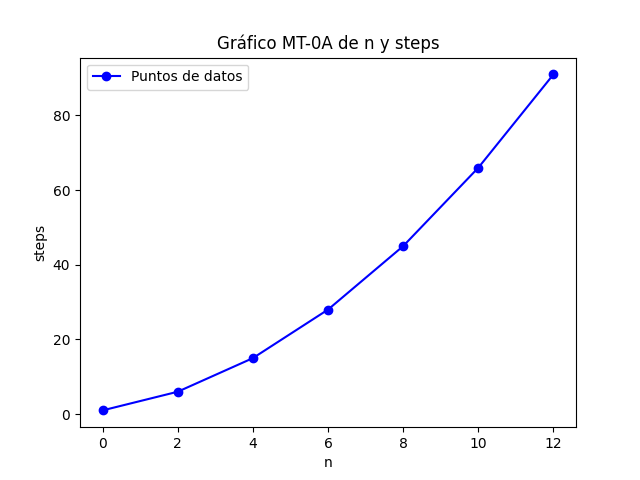
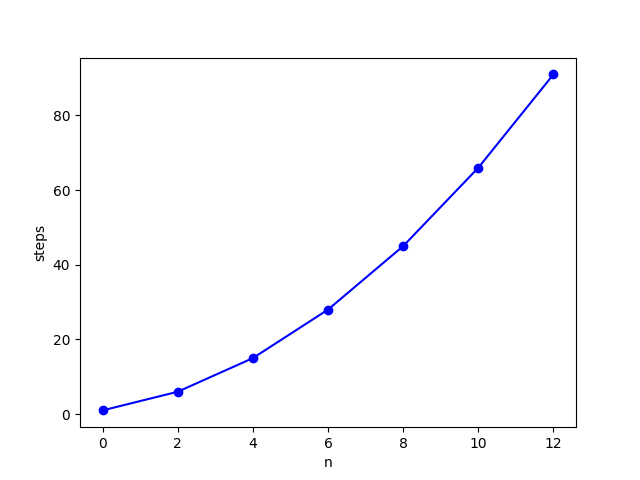
refactor complexity plotting

Changed region(s): [[0.125, 0.0625, 0.6875, 0.1875]]

diff --git a/src/test.py b/src/test.py
@@ -8,6 +8,7 @@ from typing import Callable
 import numpy as np
 import matplotlib.pyplot as plt
 import pandas as pd
+import matplotlib.colors as mcolors
 
 import jf2tm
 
@@ -74,42 +75,33 @@ def tests(file: Path, inputs: list[str], ntapes: int = 0) -> pd.DataFrame:
     return results
 
 
+
 # ==============
 # PLOT FUNCTIONS
 # ==============
 
-
-def plot_results(
+def plot_df(
     df: pd.DataFrame,
     x_column: str,
     y_column: str,
-    machine_name: str,
     save_file: str | None = None
 ):
     """
-    Plots results from a DataFrame.
+    Plots a DataFrame.
 
-    :param df: DataFrame to read.
+    :param df: DataFrame to plot.
     :param x_column: Column from `df` to represent on the X axis.
     :param y_column: Column from `df` to represent on the Y axis.
-    :param machine_name: Name of the machine.
     :param save_file: File to save the image to. If `None`, shows the plot.
     """
-
-    # Extraer las columnas x e y del DataFrame
-    x = df[x_column]
-    y = df[y_column]
 
     # Crear el gráfico
     fig, ax = plt.subplots()
-    ax.plot(x, y, marker="o", color='blue',label='Puntos de datos')
+    ax.plot(df[x_column], df[y_column], marker='o', color='blue')
 
-    # Agregar etiquetas y título
-    ax.set_xlabel('n')
-    ax.set_ylabel('steps')
-    # ax.set_title(f'Gráfico {machine_name} de {x_column} y {y_column}')
-
-    ax.legend()
+    # Agregar etiquetas
+    ax.set_xlabel(x_column)
+    ax.set_ylabel(y_column)
 
     if save_file:
         fig.savefig(save_file)
@@ -117,35 +109,39 @@ def plot_results(
         fig.show()
 
 
-def plot_complexity(
-    t_n: Callable[[np.ndarray], np.ndarray],
-    o_n: Callable[[np.ndarray], np.ndarray],
-    machine_name: str,
-    save_file: str | Path | None = None,
+def plot_functions(
+    funcs: dict[str, Callable[[np.ndarray], np.ndarray]],
     n0: int = 10,
-    n_max: int = 100
+    n_max: int = 100,
+    save_file: str | Path | None = None
 ):
     """
-    Plots complexity functions.
+    Plots functions refering to the complexity of turing machines (in terms of n and number of steps).
 
-    :param t_n: Complexity function (T(n)).
-    :param o_n: Big O function (O(n)).
-    :param machine_name: Name of the machine.
-    :param save_file: File to save the image to. If `None`, shows the plot.
+    :param funcs: Map of function name and function (`{"f(n)": f_n, ...}`).
     :param n0: Initial value of n.
     :param n_max: Maximum value of n to plot.
+    :param save_file: File to save the image to. If `None`, shows the plot.
     """
 
     fig, ax = plt.subplots()
+
     x = np.linspace(n0, n_max, n_max - n0)
 
-    ax.plot(x, t_n(x), color='blue', label='T(n)')
-    ax.plot(x, o_n(x), color='red', label='O(n)')
+    for name, fn in funcs.items():
+        ax.plot(x, fn(x), label=name)
 
-    # Agregar etiquetas y título
+    # automatic colors
+    if len(funcs) <= len(mcolors.BASE_COLORS):
+        pallete = mcolors.BASE_COLORS
+    else:
+        pallete = mcolors.XKCD_COLORS
+
+    ax.set_prop_cycle(color=pallete)
+
+    # Agregar etiquetas
     ax.set_xlabel('n')
     ax.set_ylabel('steps')
-    # ax.set_title(f'Gráfico {machine_name} de O(n) y T(n)')
 
     ax.legend()
 
@@ -153,7 +149,6 @@ def plot_complexity(
         fig.savefig(save_file)
     else:
         fig.show()
-
 
 
 
@@ -224,38 +219,44 @@ if __name__ == "__main__":
         logger.debug(f"Saving results to {DATA_FOLDER / f'{machine_name}.csv'}...")
         df.to_csv(DATA_FOLDER / f'{machine_name}.csv', index=False)
 
-
         # plot results
-
-        match machine_name:
-            case "MT-0A":
-                t_n = lambda n : 2*n**2 + 6*n + 2
-                o_n = lambda n : (131/50)*n**2
-
-            case "MT-0B":
-                t_n = lambda n : 3*n + 3
-                o_n = lambda n : (33/10)*n
-
-            case "MT-0C":
-                t_n = lambda n : n + 2
-                o_n = lambda n : (12/10)*n
-
-            case "MT-1A":
-                t_n = lambda n : 4*n + 7
-                o_n = lambda n : (47/10)*n
-
-            case "MT-1B":
-                t_n = lambda n : n + 1
-                o_n = lambda n : (11/10)*n
-
-            # case "MT-2A":
-            # case "MT-2B":
-
-        plot_results(df, "n", "steps", machine_name, IMAGE_FOLDER / f"plot_{machine_name}_results.png")
-        plot_complexity(t_n, o_n, machine_name, save_file=IMAGE_FOLDER / f"plot_{machine_name}_complexity.png")
+        plot_df(df, 'n', 'steps', IMAGE_FOLDER / f"plot_{machine_name}_results.png")
 
 
-    # non-deterministic machines
-    for machine_name in ("MT-0C",):
-        plot_complexity(lambda n : n + 2, lambda n : (12/10)*n, machine_name, save_file=IMAGE_FOLDER / f"plot_{machine_name}_complexity.png")
+    # plot complexity
+    logger.info("Plotting complexity functions...")
+
+    COMPLEXITY_FUNCTIONS = {
+        'MT-0A': {
+            "T(n)": lambda n : 2*n**2 + 6*n + 2,
+            "O(n)": lambda n : (131/50)*n**2
+        },
+        'MT-0B': {
+            "T(n)": lambda n : 3*n + 3,
+            "O(n)": lambda n : (33/10)*n
+        },
+        'MT-0C': {
+            "T(n)": lambda n : n + 2,
+            "O(n)": lambda n : (12/10)*n
+        },
+        'MT-1A': {
+            "T(n)": lambda n : 4*n + 7,
+            "O(n)": lambda n : (47/10)*n
+        },
+        'MT-1B':{
+            "T(n)": lambda n : n + 1,
+            "O(n)": lambda n : (11/10)*n
+        }
+    }
+
+    for machine_name, funcs in COMPLEXITY_FUNCTIONS.items():
+        plot_functions(funcs, save_file=IMAGE_FOLDER / f"plot_{machine_name}_complexity.png")
+
+
+    # plot all
+    plot_functions(
+        {name: functions['T(n)'] for name, functions in COMPLEXITY_FUNCTIONS.items()},
+        save_file=IMAGE_FOLDER / f"plot_all_complexity.png",
+        n_max=40
+    )
 
